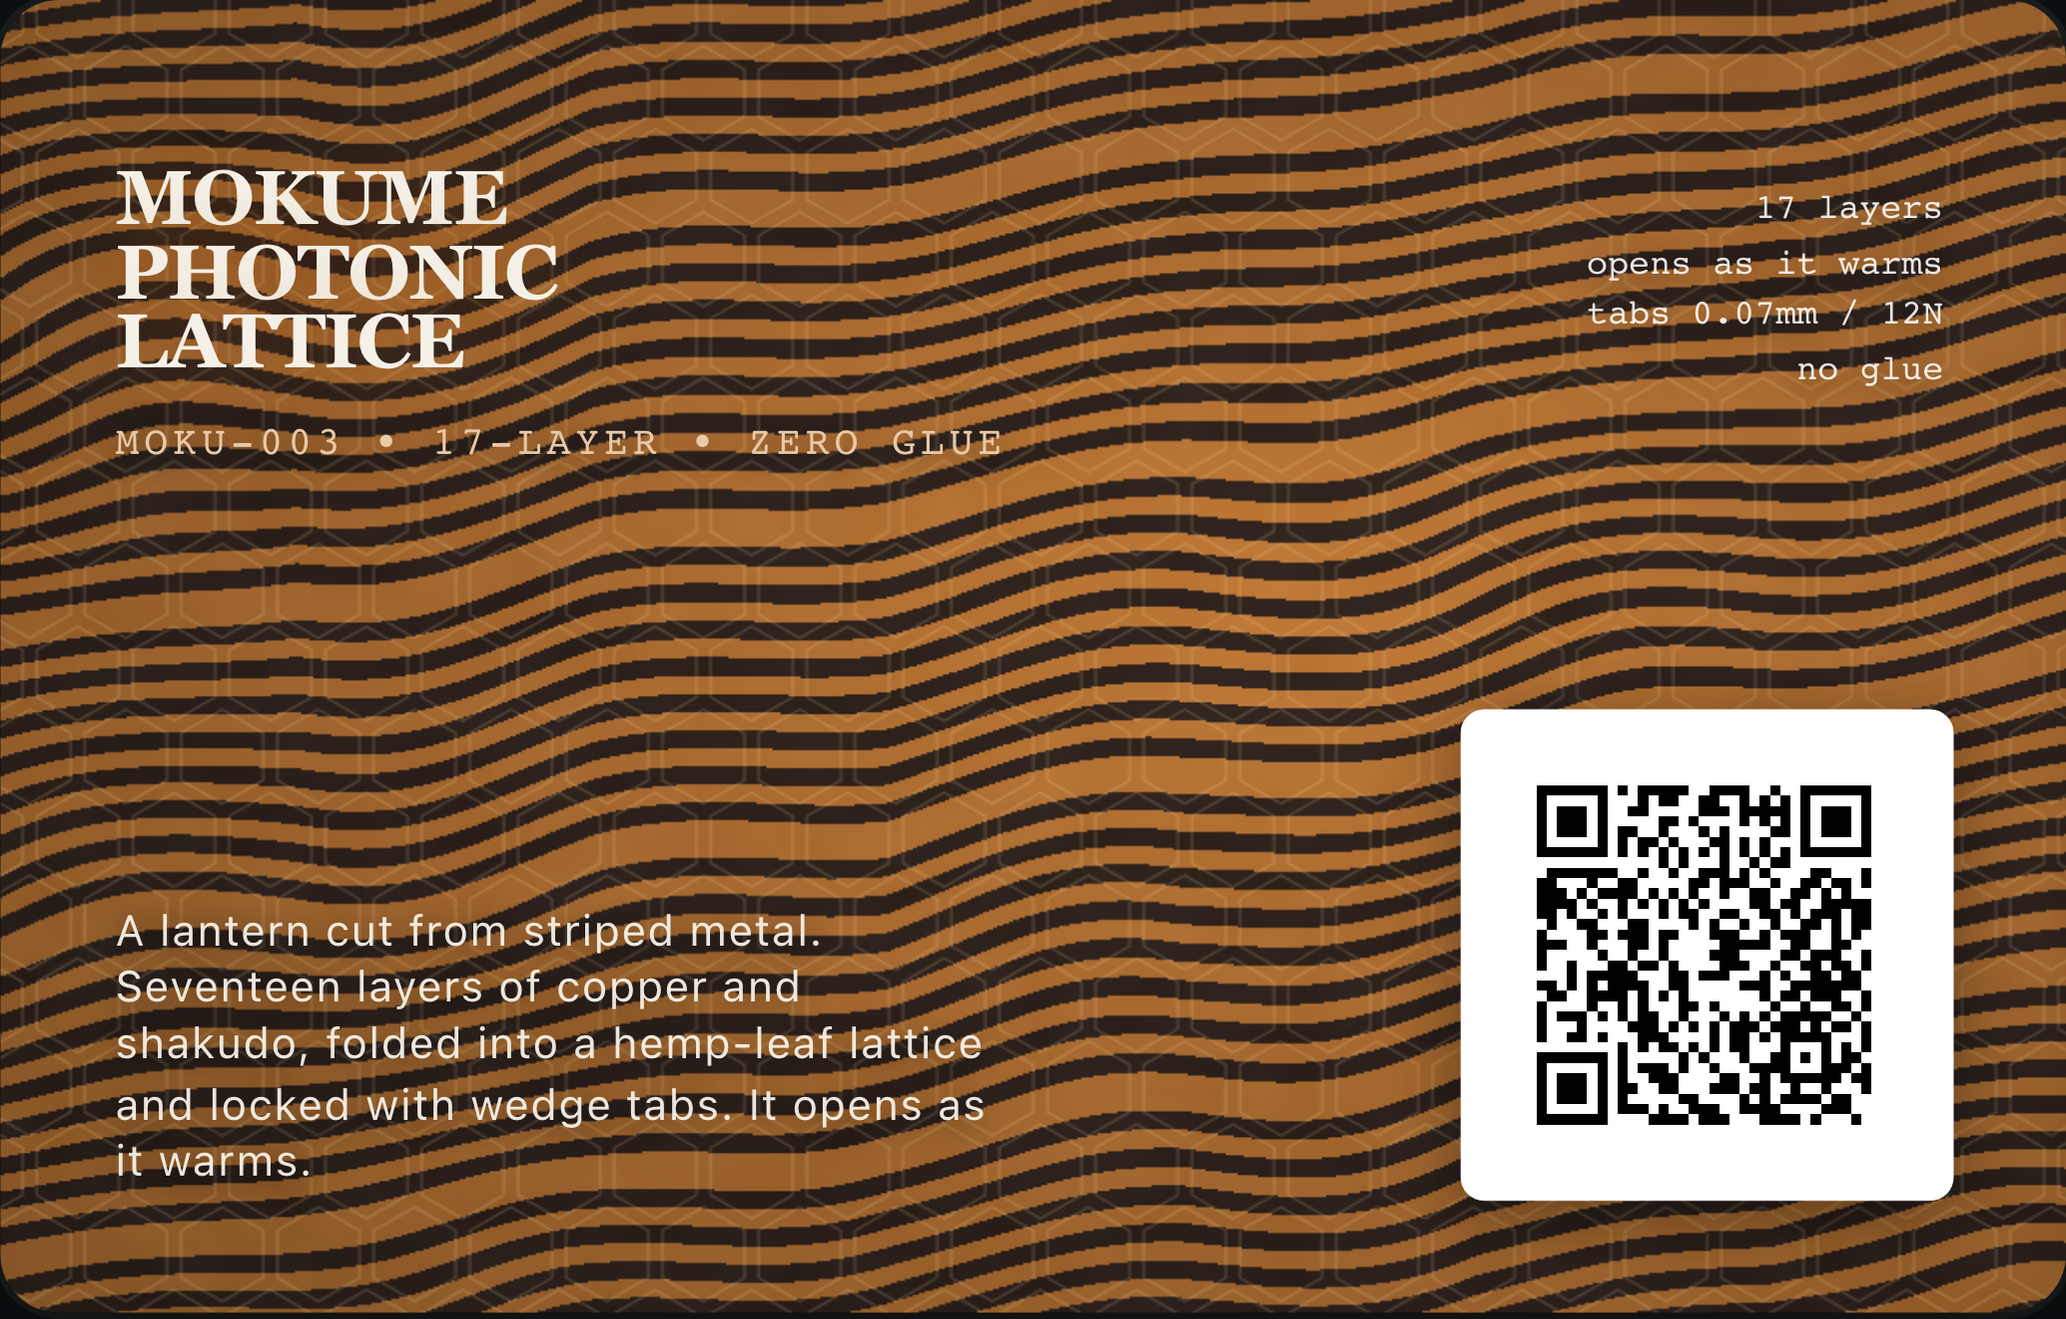
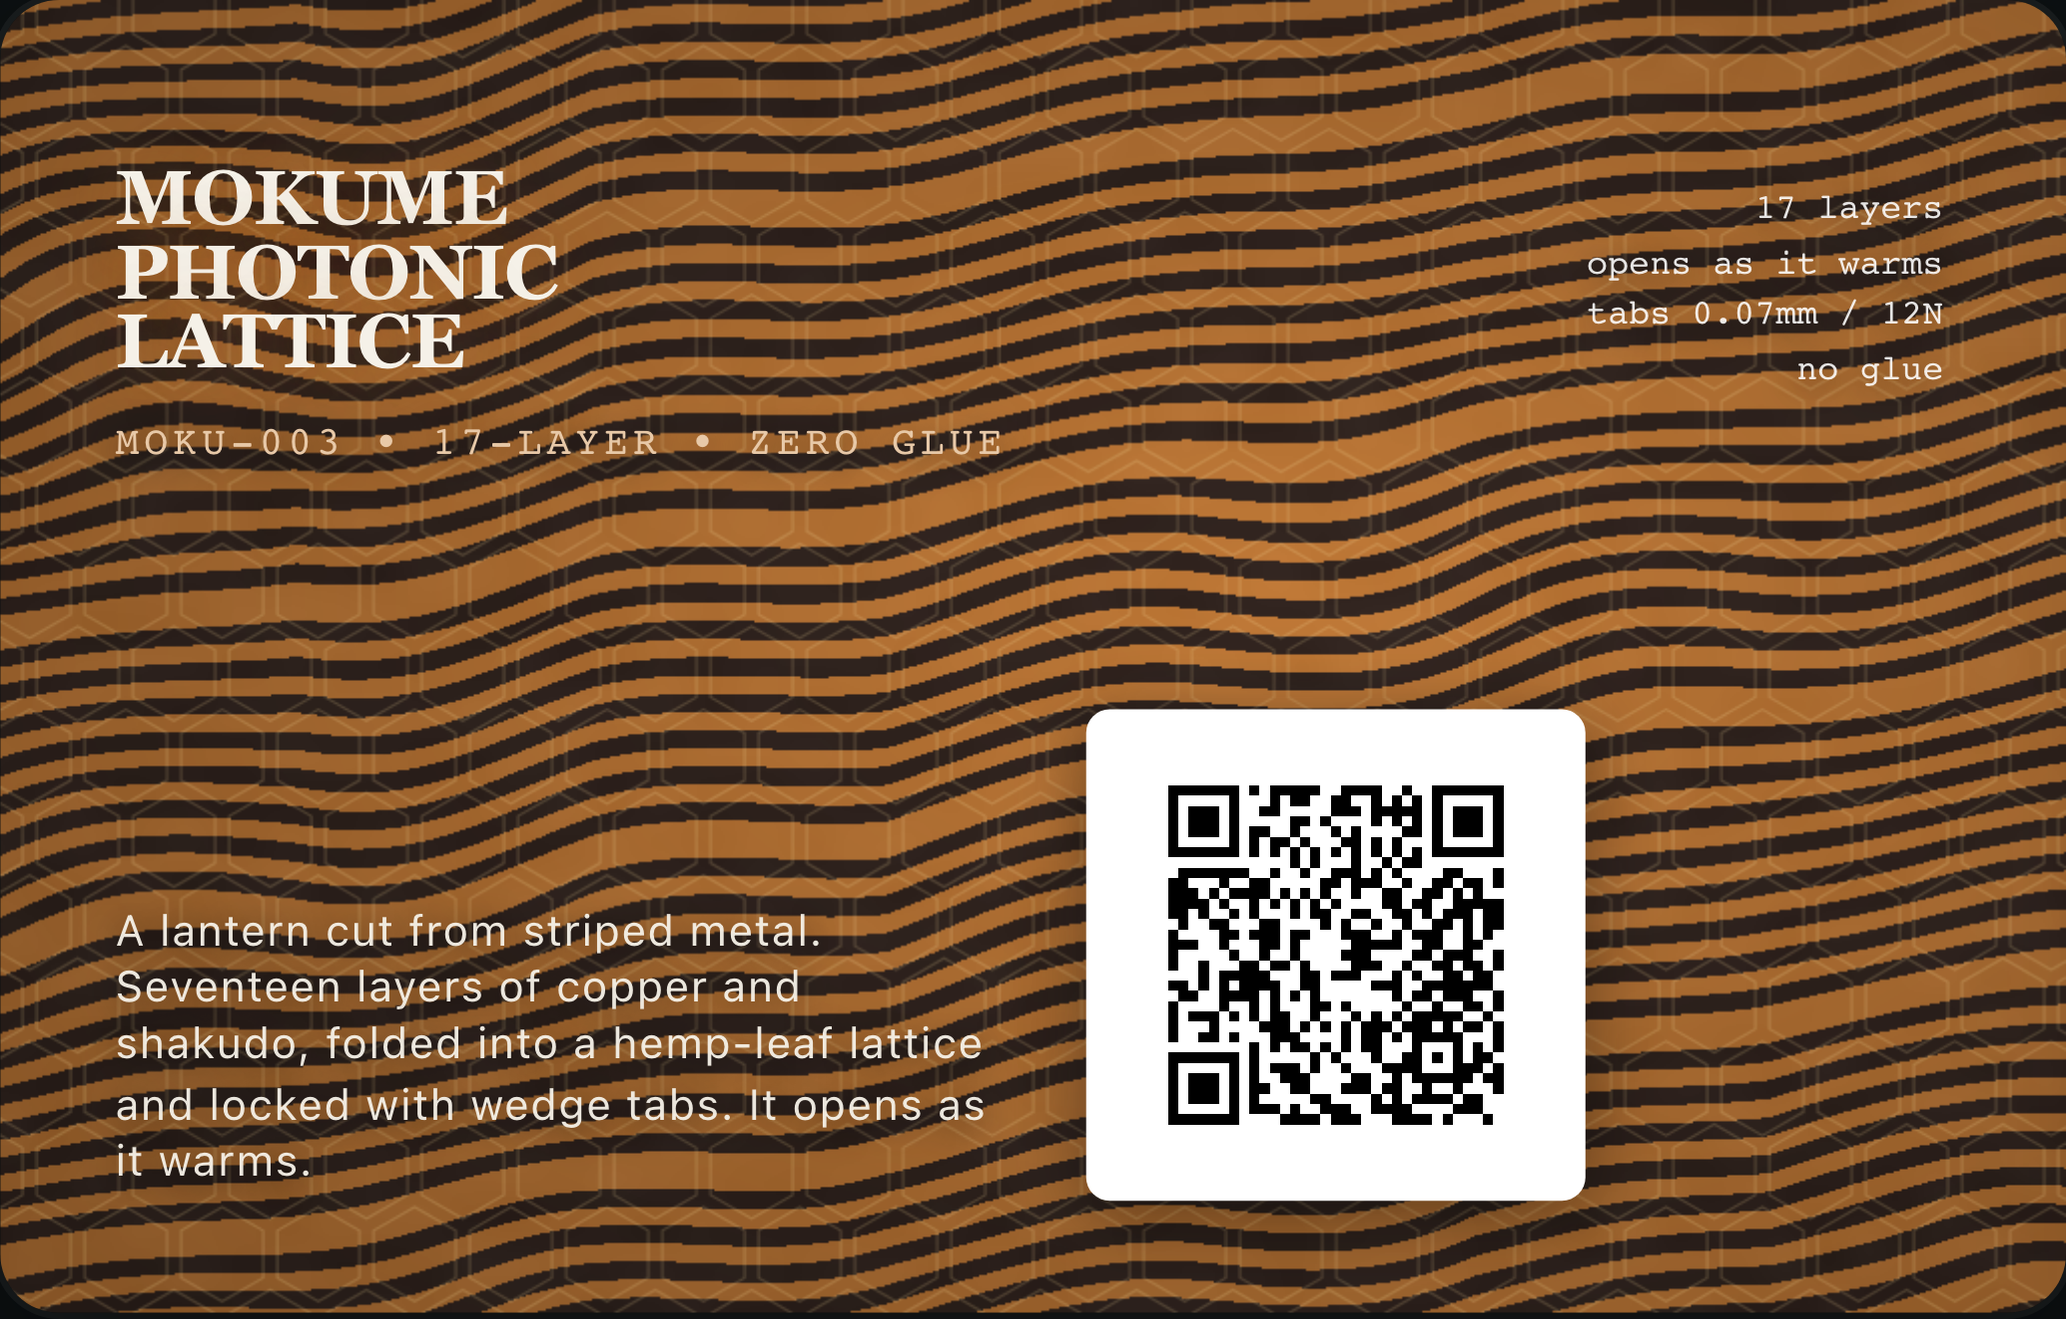
The card with no way to tell you it was a card
MOKU-003 shipped with no tap mark on either face — the only card in the system
without one. The mark is the only thing on a card that says it is programmed;
without it the object is a picture, and nobody has a reason to put a phone near
it. The owner reported it more than once.

It was not an oversight, which is worse. The QR sat in the bottom-right corner,
on top of the 10.3 mm box at x 68.3 / y 36.7 that every other front reserves
for the mark, so the mark was skipped and a code comment said a reprint
template could put one on the back instead. Nothing ever did. A decision was
recorded and then not executed, and nothing in the repo could see the
difference between a face that was never given the mark and one that was not
supposed to have it.

Wrong trade, too. The mark's position is load-bearing: the reprint templates
exist to add it to cards already printed without one, and their promise is that
a reprinted card and a fresh one are indistinguishable, which holds only while
every front puts it in the same box. The QR's position is not load-bearing. So
the QR moved left to a right edge at 67 mm on the bleed sheet — 2.25 mm clear
of the mark, 2.25 mm clear of the description — and it is still 21 mm, well
over its 17.2 mm scan floor. White mark, because the artwork under the box
measures mean luminance 79.2 of 255.

AND A CHECK, so it cannot go missing again. verify_geometry.py now reads the
template registry and asserts every card front carries a marks/tap-*.png
[…]

Changed region(s): [[0.4956, 0.5284, 0.9603, 0.9325]]

diff --git a/src/web/app.js b/src/web/app.js
@@ -505,24 +505,28 @@ const TEMPLATES = {
   // printed qr_matches_url:false next to ok:true until it was taught to read
   // both faces.
   //
-  // NO TAP MARK ON THIS FRONT, and that is a measurement rather than an omission.
-  // The box every other front puts the mark in - x 68.3-78.6, y 36.7-47.0 mm -
-  // lands inside this card's QR panel. The panel is 21 mm square, 4.8 mm in from
-  // the right and bottom edges of the 87.5 x 55.88 mm bleed sheet, which is
-  // x 60.75-81.75, y 29.13-50.13 mm once the card is trimmed. A 10.3 mm opaque
-  // mark in the middle of a QR is a card that does not scan, and it would be
-  // found on PVC. The mark is not moved somewhere else either: the reprint
-  // templates at the top of this file promise that a fresh front and a reprinted
-  // one are indistinguishable, and that only holds while the position never
-  // moves. So this front ships without one, and a reprint template can put the
-  // mark on this card's BACK, which carries no QR.
+  // THE QR MOVED SO THE MARK COULD STAY PUT. This card's QR panel used to sit in
+  // the bottom-right corner, on top of the 10.3 mm box at x 68.3 / y 36.7 that
+  // every other front reserves for the tap mark. The answer was to skip the mark
+  // here - which left this the only card in the system with no tap mark on
+  // either face, and the note saying a reprint template could put one on the
+  // back was never acted on. Wrong trade: the mark's position is load-bearing
+  // (the reprint templates promise a fresh front and a reprinted one are
+  // indistinguishable, which only holds while it never moves) and the QR's
+  // position is not. So the QR moved left, to a right edge at 67 mm on the bleed
+  // sheet - 2.25 mm clear of the mark's box, 2.25 mm clear of the description -
+  // and it is still 21 mm, well over its 17.2 mm scan floor.
+  // White because the artwork under the box measures mean luminance 79.2 of 255.
   'mokume-lattice-front': {
     label: 'Mokume Photonic Lattice 03 \u2014 front',
     group: 'Compound Craft \u2014 Book One',
     build: () => ({
       bg: { type: 'color', color: '#ffffff' },
-      elements: [{ ...defaults('image'), x: 0, y: 0, w: 85.6, h: 53.98, radius: 0,
-                   fit: 'cover', src: 'cards/moku-front.png' }],
+      elements: [
+        { ...defaults('image'), x: 0, y: 0, w: 85.6, h: 53.98, radius: 0,
+          fit: 'cover', src: 'cards/moku-front.png' },
+        { ...defaults('image'), x: 68.3, y: 36.7, w: 10.3, h: 10.3, src: 'marks/tap-white.png' },
+      ],
     }),
   },
   'mokume-lattice-back': {

diff --git a/examples/moku-card/package/index.html b/examples/moku-card/package/index.html
@@ -60,7 +60,7 @@
     text-shadow:0 1px 6px rgba(0,0,0,0.8)
   }
   .qr-wrap{
-    position:absolute; right:4.8mm; bottom:4.8mm;
+    position:absolute; right:20.5mm; bottom:4.8mm;
     width:21mm; height:21mm; background:white; padding:1.2mm;
     border-radius:1mm; box-shadow:0 2px 12px rgba(0,0,0,0.4);
     display:flex; align-items:center; justify-content:center;

diff --git a/tools/verify_geometry.py b/tools/verify_geometry.py
@@ -257,6 +257,54 @@ def main(argv=None) -> int:
                   f"{im.width}x{im.height} = {ar:.4f} vs {CARD_W/CARD_H:.4f}; "
                   f"cover-fit will crop {abs(1 - ar/(CARD_W/CARD_H))*100:.1f}% off two edges")
 
+    print("\nEVERY CARD'S FRONT CARRIES THE TAP MARK, IN THE ONE PLACE IT LIVES")
+    # A card is printed AND programmed, and the mark is the only thing on it that
+    # says so. Without it the card is a picture: a person has no reason to put
+    # their phone anywhere near it, which makes the chip a feature nobody uses.
+    #
+    # It went missing on the fifth card and nobody noticed for a day. That card's
+    # QR sat in the corner the mark belongs in, so the mark was skipped and a
+    # code comment said a reprint template could put one on the back instead. It
+    # never did. The card shipped with no mark on either face — the only one in
+    # the system — and the owner had to report it more than once, because nothing
+    # here could tell a face that had never had the mark from one that was not
+    # supposed to. That is what this check is: the difference, stated once.
+    #
+    # THE POSITION IS PART OF THE CHECK, not decoration. The reprint templates at
+    # the top of app.js exist to add the mark to cards already printed without
+    # one, and their whole promise is that a reprinted card and a fresh one are
+    # indistinguishable. That holds only while every front puts it in the same
+    # 10.3 mm box. A mark present but moved is a reprint that lands twice.
+    TAP = (68.3, 36.7, 10.3, 10.3)
+    entry = re.compile(
+        r"'([a-z0-9-]+)':\s*\{.*?src:\s*'cards/([a-z0-9-]+)-(front|back)\.png'(.*?)\n  \},",
+        re.S)
+    faces = {}
+    for m in entry.finditer(app):
+        faces.setdefault(m.group(2), {})[m.group(3)] = m.group(0)
+    check("the template registry lists at least one card face", bool(faces),
+          "no `src: 'cards/<name>-<face>.png'` found — did the registry move?")
+    for prefix in sorted(faces):
+        front = faces[prefix].get("front")
+        if front is None:
+            check(f"card {prefix} has a front template", False,
+                  "only a back is registered, so nothing can carry the mark")
+            continue
+        mark = re.search(r"x:\s*([\d.]+),\s*y:\s*([\d.]+),\s*w:\s*([\d.]+),\s*h:\s*([\d.]+),"
+                         r"\s*src:\s*'marks/tap-[a-z]+\.png'", front)
+        if not mark:
+            check(f"card {prefix} front carries a tap mark", False,
+                  "no `marks/tap-*.png` element. Every other front has one at "
+                  f"x {TAP[0]} y {TAP[1]}. If the artwork occupies that box, move "
+                  "the artwork — the mark's position is what the reprint "
+                  "templates promise, and it is the only thing telling a person "
+                  "this card is tappable.")
+            continue
+        got = tuple(round(float(g), 2) for g in mark.groups())
+        check(f"card {prefix} front tap mark is at {TAP[0]}, {TAP[1]} mm", got == TAP,
+              f"found at x {got[0]} y {got[1]} w {got[2]} h {got[3]} — a reprint "
+              f"adds the mark at {TAP[0]}, {TAP[1]}, so this card would get two")
+
     print("\nEVERY RECORDED CARD'S QR DECODES TO THE DESTINATION THE REGISTRY RECORDS")
     # A card whose QR does not decode is a dead card, and it cannot be judged by
     # eye — the version this replaced looked like a perfectly good QR and was
